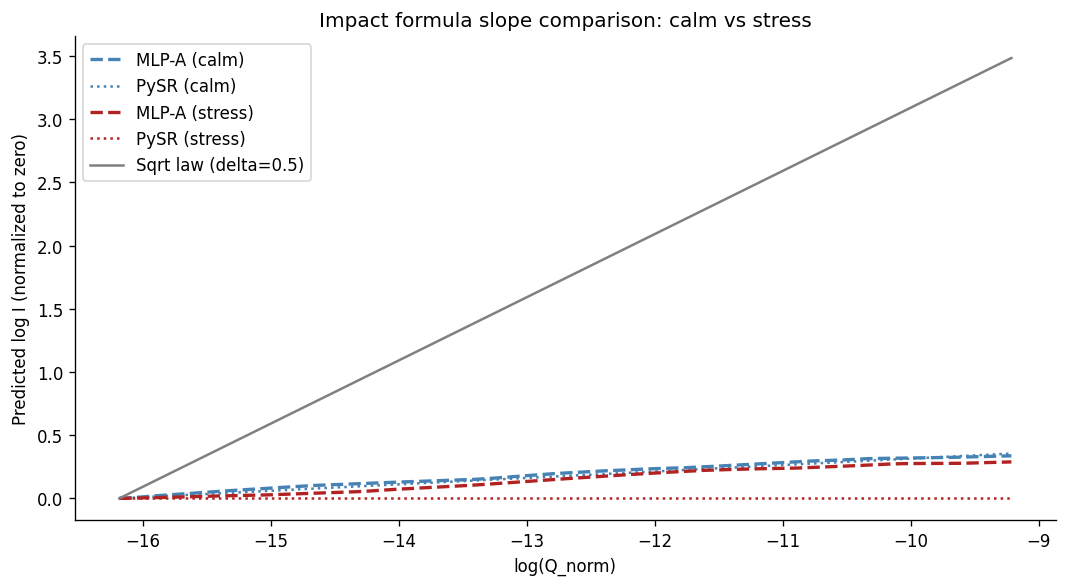
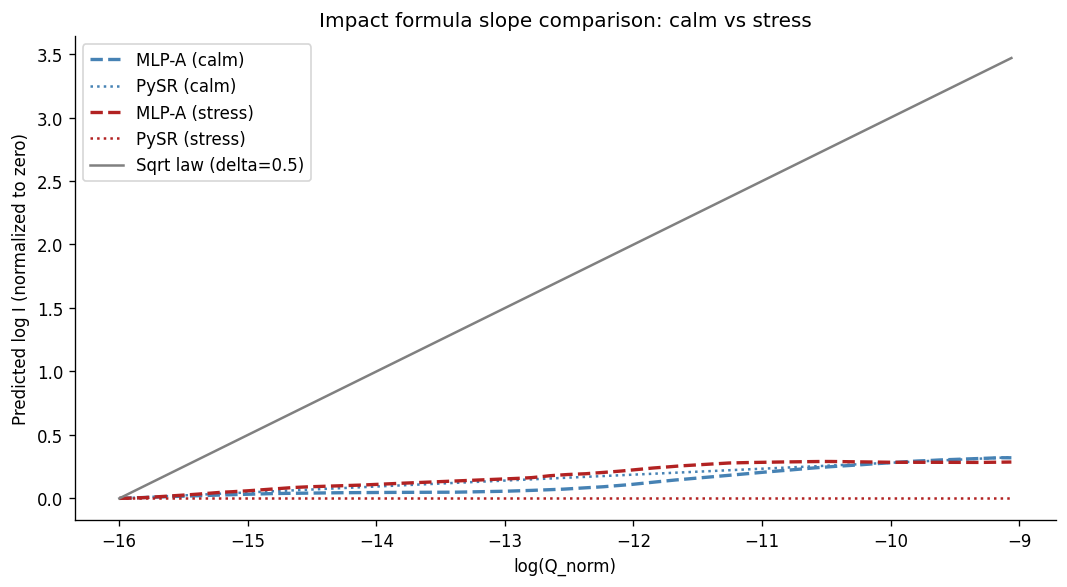
Change data.

diff --git a/src/process_data.py b/src/process_data.py
@@ -27,7 +27,8 @@ import pandas as pd
 from pathlib import Path
 
 SYMBOL        = "BTCUSDT"
-MONTHS        = ["2025-12", "2026-01"]
+MONTHS = ["2025-08", "2025-09"] # calm
+# MONTHS = ["2025-11"] # stress
 RAW_DIR       = Path(__file__).parent.parent / "data" / "raw"
 PROCESSED_DIR = Path(__file__).parent.parent / "data" / "processed"
 

diff --git a/src/fetch_data.py b/src/fetch_data.py
@@ -19,7 +19,8 @@ from pathlib import Path
 from tqdm import tqdm
 
 SYMBOL   = "BTCUSDT"
-MONTHS   = ["2025-12", "2026-01"]
+MONTHS = ["2025-08", "2025-09"] # calm
+# MONTHS = ["2025-11"] # stress
 BASE_URL = "https://data.binance.vision/data/spot/monthly"
 RAW_DIR  = Path(__file__).parent.parent / "data" / "raw"
 

diff --git a/README.md b/README.md
@@ -10,41 +10,42 @@ Using public Binance BTC/USDT trade data and the metaorder reconstruction algori
 
 The equity sqrt law does not hold on 2025 BTC/USDT in either regime. The empirical size exponent is ~0.1 in both calm and stress conditions, far from the theoretical 0.5. The functional form differs between regimes, but not in the direction of the equity model.
 
-### Calm regime (Dec 2025 / Jan 2026)
+### Calm regime (Aug / Sep 2025)
 
 The formula PySR extracts from the trained MLP is:
 
 ```
-I ~ Q^(-0.246) / sigma
+log I ≈ (-5.510 / log_Q) + (log_sigma * -0.692) + -6.879
 ```
 
-Size-dependence is weak and inverted relative to theory. The dominant factor is daily volatility in the denominator. This result is stable across PySR random seeds and reconstruction parameter choices.
+Since log_Q is always negative, the size term `-5.510 / log_Q` is always positive but shrinks as Q grows. Larger metaorders have lower normalized impact. The dominant factor is log_sigma. The sqrt law structure is absent.
 
-### Stress regime (Feb 2026, market crash)
+### Stress regime (Nov 2025, market crash)
 
-Sigma spikes 4.7x vs calm. The PySR formula changes structurally:
+Sigma rises 2.3x vs calm. The PySR formula changes structurally:
 
 ```
-log I ≈ (8.132 / log_sigma) + (-19.628 / log_V)
+log I ≈ (exp(log_sigma / 4.352) * -7.764) + (log_Q * 0.040)
 ```
 
-Log_Q disappears entirely. Under stress, metaorder size carries no predictive value for normalized impact. Volatility and volume determine impact; size does not.
+The sigma term becomes exponential rather than linear. log_Q enters directly and positively, but with a small coefficient (~0.040). log_V drops out entirely in both regimes. The sqrt law is absent here too.
 
 ### Regime comparison
 
 |  | Calm | Stress |
 |---|---|---|
-| OLS delta | 0.107 | 0.096 |
-| MLP-A mean local slope | 0.044 | 0.041 |
-| PySR formula | Q^(-0.246) / sigma | f(sigma, V) only |
-| log_Q in formula | Yes (negative) | No |
+| OLS delta | 0.100 | 0.129 |
+| MLP-A mean local slope | 0.042 | 0.041 |
+| PySR formula | (-5.510 / log_Q) + (log_sigma * -0.692) + -6.879 | (exp(log_sigma / 4.352) * -7.764) + (log_Q * 0.040) |
+| log_Q in formula | Yes (1/log_Q) | Yes (log_Q directly) |
+| Sigma functional form | Linear | Exponential |
 | Matches equity model | No | No |
 
-The crash did not move delta toward 0.5. It stayed flat and the impact function became less dependent on size, not more.
+OLS delta rose modestly under stress (0.100 to 0.129). The MLP local slope is unchanged (0.042 vs 0.041). The binned OLS relationship steepened; the continuous size-impact function the network learned did not.
 
 ![Impact formula slope comparison](outputs/figures/formula_comparison_regimes.png)
 
-*All empirical lines (calm and stress, MLP and PySR) lie in a narrow band near zero slope. The sqrt law reference reaches 3.5 log-units above them at the right edge. The stress PySR is flat, consistent with log_Q being absent from the formula.*
+*All empirical lines (calm and stress, MLP and PySR) lie in a narrow band near zero slope. The sqrt law reference reaches 3.5 log-units above them at the right edge.*
 
 ![Size exponent by method and regime](outputs/figures/delta_comparison.png)
 
@@ -54,17 +55,17 @@ The crash did not move delta toward 0.5. It stayed flat and the impact function 
 
 | Model | Calm | Stress |
 |---|---|---|
-| Power law (delta=0.5, constrained) | 1.282 | 0.994 |
-| Power law (delta fitted) | 1.063 | 0.618 |
-| Almgren-Chriss | 0.672 | 0.608 |
-| MLP-A | 0.685 | 0.622 |
-| MLP-B | 0.604 | 0.561 |
+| Power law (delta=0.5, constrained) | 1.272 | 0.996 |
+| Power law (delta fitted) | 0.909 | 0.689 |
+| Almgren-Chriss | 0.661 | 0.573 |
+| MLP-A | 0.668 | 0.574 |
+| MLP-B | 0.605 | 0.506 |
 
-MLP-A matches Almgren-Chriss in calm. MLP-B beats it by ~10% in both regimes. R² is near zero for all models in stress, reflecting the low predictability of the crash period.
+MLP-A is statistically indistinguishable from Almgren-Chriss in stress (DM test p = 0.089): a nonlinear model on the same three features adds nothing in the high-noise regime. MLP-B beats Almgren-Chriss in both regimes; n_child and utc_hour add predictive value that log_Q, log_sigma, and log_V do not capture.
 
 ## Prior work
 
-Donier & Bonart (2014) confirm the sqrt law on Bitcoin/USD using a complete dataset with real trader IDs from 2014, when Bitcoin was a small, illiquid market with near-zero statistical arbitrage. This project uses the Maitrier et al. (2025) reconstruction on 2025 data, where the market structure is fundamentally different: 10x the volume, professional market makers, and continuous arbitrage with perpetual futures. The difference in findings is consistent with genuine market structure differences, though reconstruction quality without ground-truth trader IDs cannot be ruled out as a contributing factor.
+Donier & Bonart (2014) confirm the sqrt law on Bitcoin/USD using a complete dataset with real trader IDs from 2014, when Bitcoin was a small, illiquid market with near-zero statistical arbitrage. This project uses the Maitrier et al. (2025) reconstruction on 2025 data, where the market structure is fundamentally different: 10x the volume, professional market makers, and continuous arbitrage with perpetual futures. The difference in findings is consistent with genuine market structure differences. Reconstruction quality without ground-truth trader IDs cannot be ruled out as a contributing factor.
 
 ## Methodology
 
@@ -77,7 +78,7 @@ Three models are compared in each regime:
 
 ![Metaorder price impact vs size](outputs/figures/loglog_metaorders.png)
 
-*Log-log plot of binned median impact vs metaorder size (calm regime). The OLS fit gives delta = 0.114. The sqrt law (delta = 0.5) is shown for reference.*
+*Log-log plot of binned median impact vs metaorder size (calm regime). The OLS fit gives delta = 0.100. The sqrt law (delta = 0.5) is shown for reference.*
 
 ## Setup
 
@@ -103,7 +104,7 @@ python src/reconstruct_metaorders.py
 jupyter lab
 ```
 
-For the stress regime, set `MONTHS = ["2026-02"]` in `fetch_data.py` and `process_data.py` and save the output as `impact_data_stress.parquet` before running `05_stress.ipynb`.
+For the stress regime, set `MONTHS = ["2025-11"]` in `fetch_data.py` and `process_data.py` and save the output as `impact_data_stress.parquet` before running `05_stress.ipynb`.
 
 ## Notebooks
 
@@ -113,23 +114,23 @@ For the stress regime, set `MONTHS = ["2026-02"]` in `fetch_data.py` and `proces
 | `02_benchmark.ipynb` | OLS benchmarks, calm regime |
 | `03_mlp.ipynb` | MLP-A and MLP-B, calm regime |
 | `04_interpretability.ipynb` | Sensitivity analysis, PySR symbolic regression, calm regime |
-| `05_stress.ipynb` | Full pipeline repeat on Feb 2026 stress regime |
+| `05_stress.ipynb` | Full pipeline repeat on Nov 2025 stress regime |
 | `06_results.ipynb` | Comparison tables, Diebold-Mariano tests, final figures |
 
 ## Data
 
 Downloaded from [data.binance.vision](https://data.binance.vision). Free, no account required. Not included in this repo.
 
-**Calm regime:** BTC/USDT, Dec 2025 and Jan 2026. 64.5M trades, 1.56M reconstructed metaorders.
+**Calm regime:** BTC/USDT, Aug and Sep 2025. 44.4M trades, 921K reconstructed metaorders. Low-volatility, sideways market with sigma_daily mean ~0.006.
 
-**Stress regime:** BTC/USDT, Feb 2026 (market crash). 1.24M reconstructed metaorders. Processed separately with the same pipeline.
+**Stress regime:** BTC/USDT, Nov 2025 (market crash, -36% from ATH). 920K reconstructed metaorders. Sigma_daily mean ~0.013 (2.3x calm). Processed separately with the same pipeline.
 
 ## Limitations
 
-- Single asset over three months. Not enough to generalize.
-- The calm regime is not uniform. December 2025 was genuinely low-volatility, but late January 2026 saw a sharp macro-driven selloff (Warsh shock, large ETF outflows). The calm label applies cleanly to December; January is better described as mixed.
-- sigma_daily has near-categorical variation (one value per day), limiting reliable estimation of the volatility-impact relationship.
+- Single asset over two months. Not enough to generalize.
+- sigma_daily has near-categorical variation (one value per day), limiting reliable estimation of the volatility-impact relationship. This likely drives the anomalous negative beta in the Almgren-Chriss model.
 - No ground-truth trader IDs. The reconstruction produces synthetic metaorders whose size distribution may not reflect real institutional flow, particularly on retail-dominated spot markets.
+- The PySR sigma term is not stable across random seeds in the calm regime (linear vs 1/log_sigma structure across seeds). The size finding is stable; the exact sigma functional form is not.
 - Crypto microstructure differs from equities in ways that make direct comparison to the equity literature approximate.
 
 ## References
